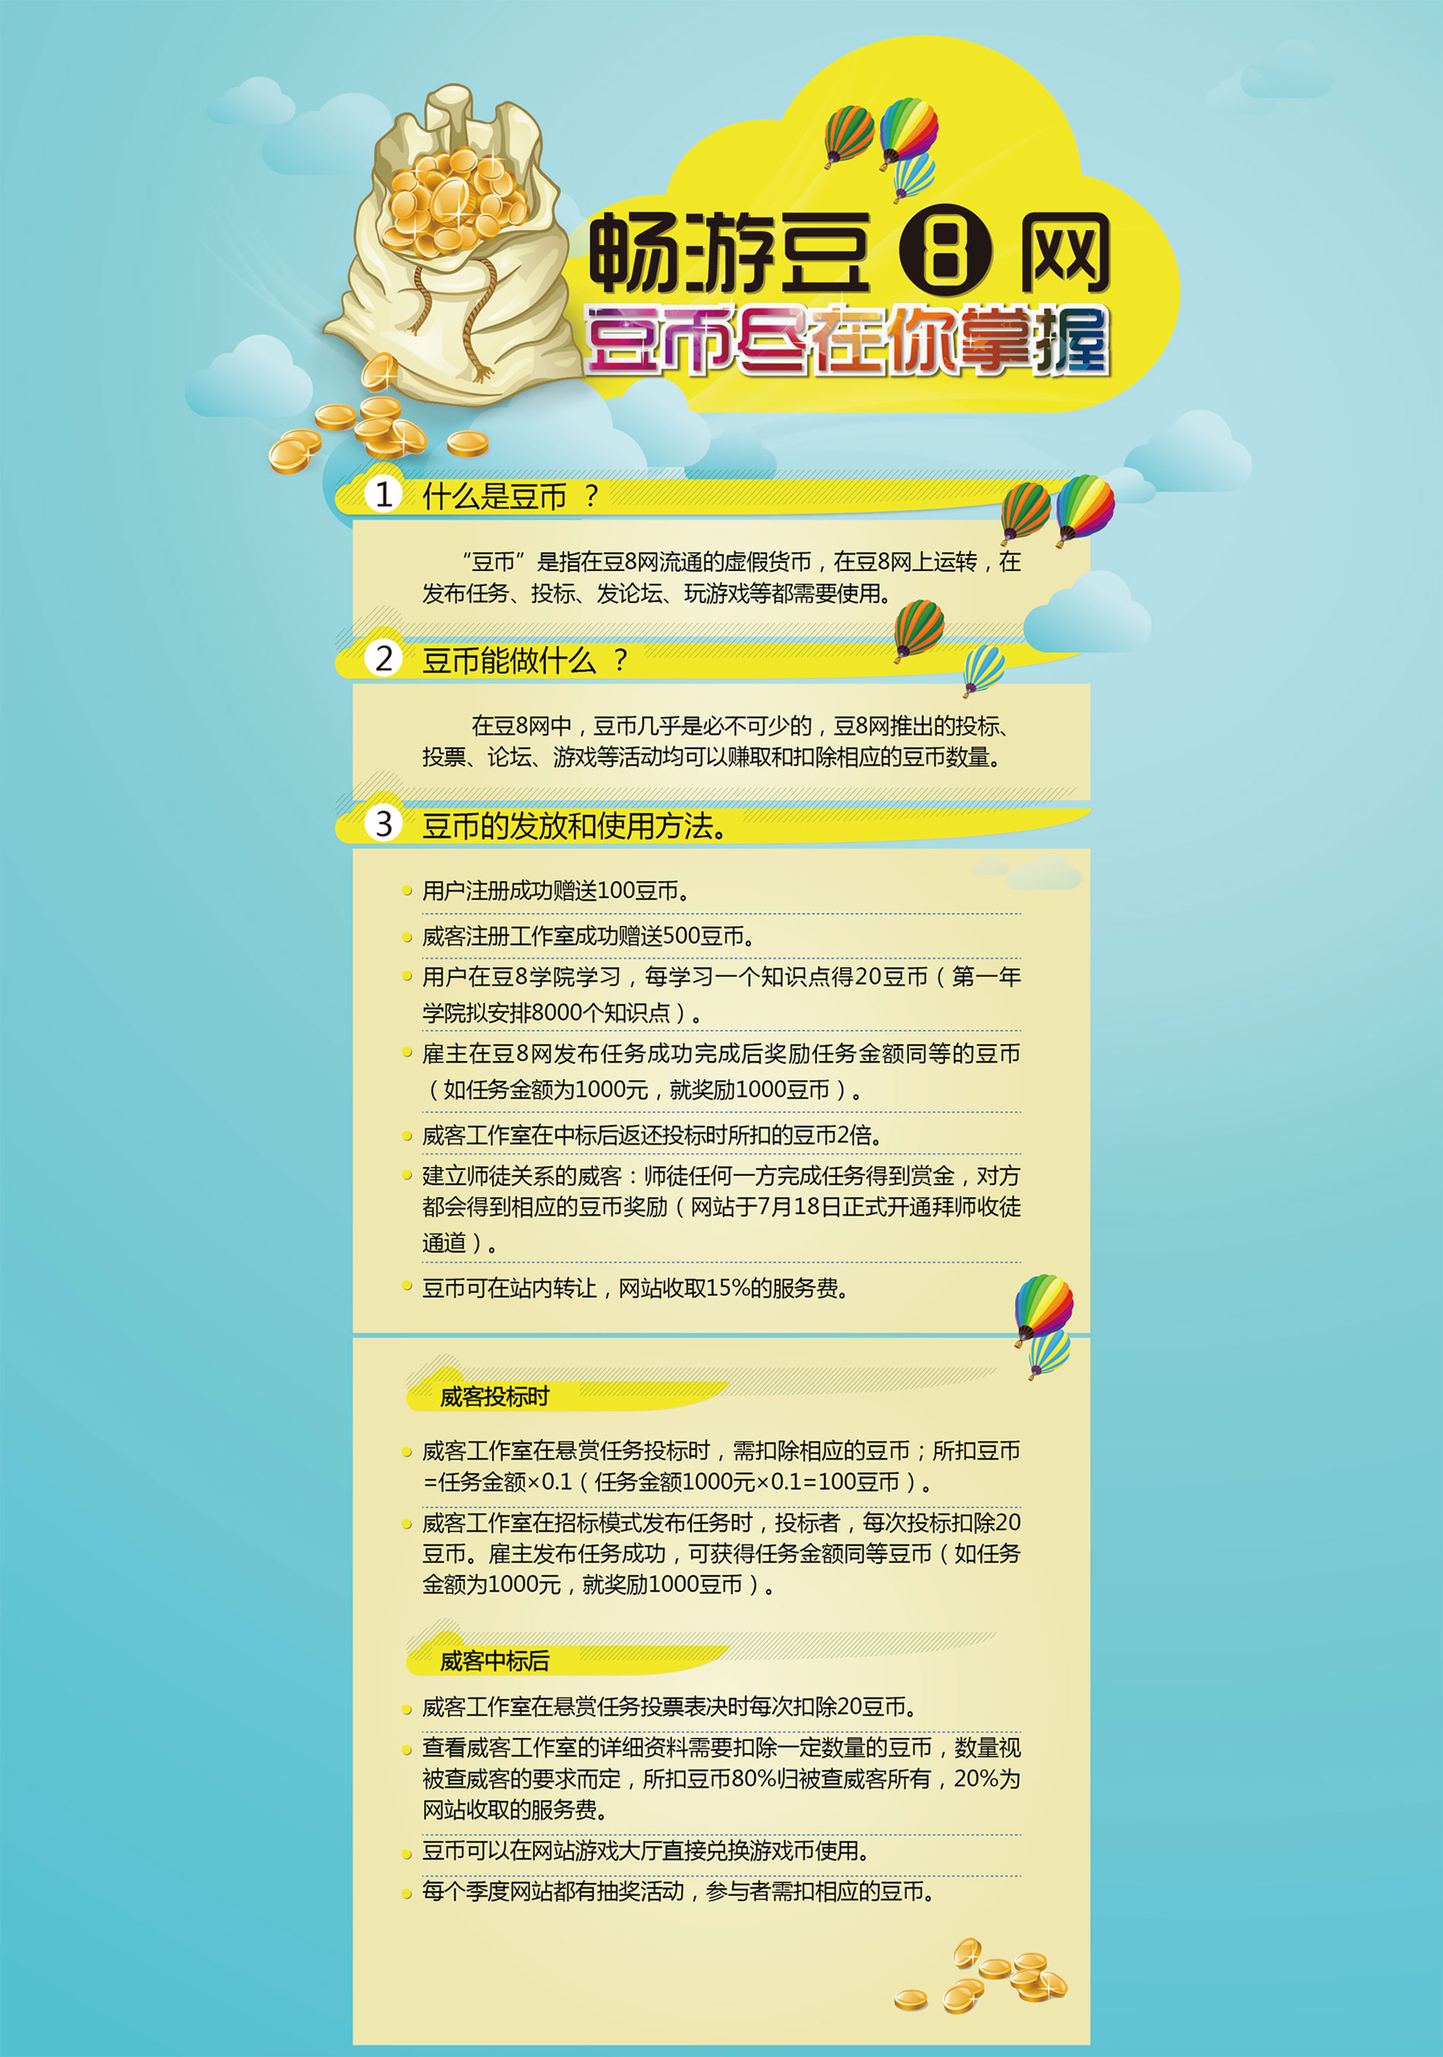
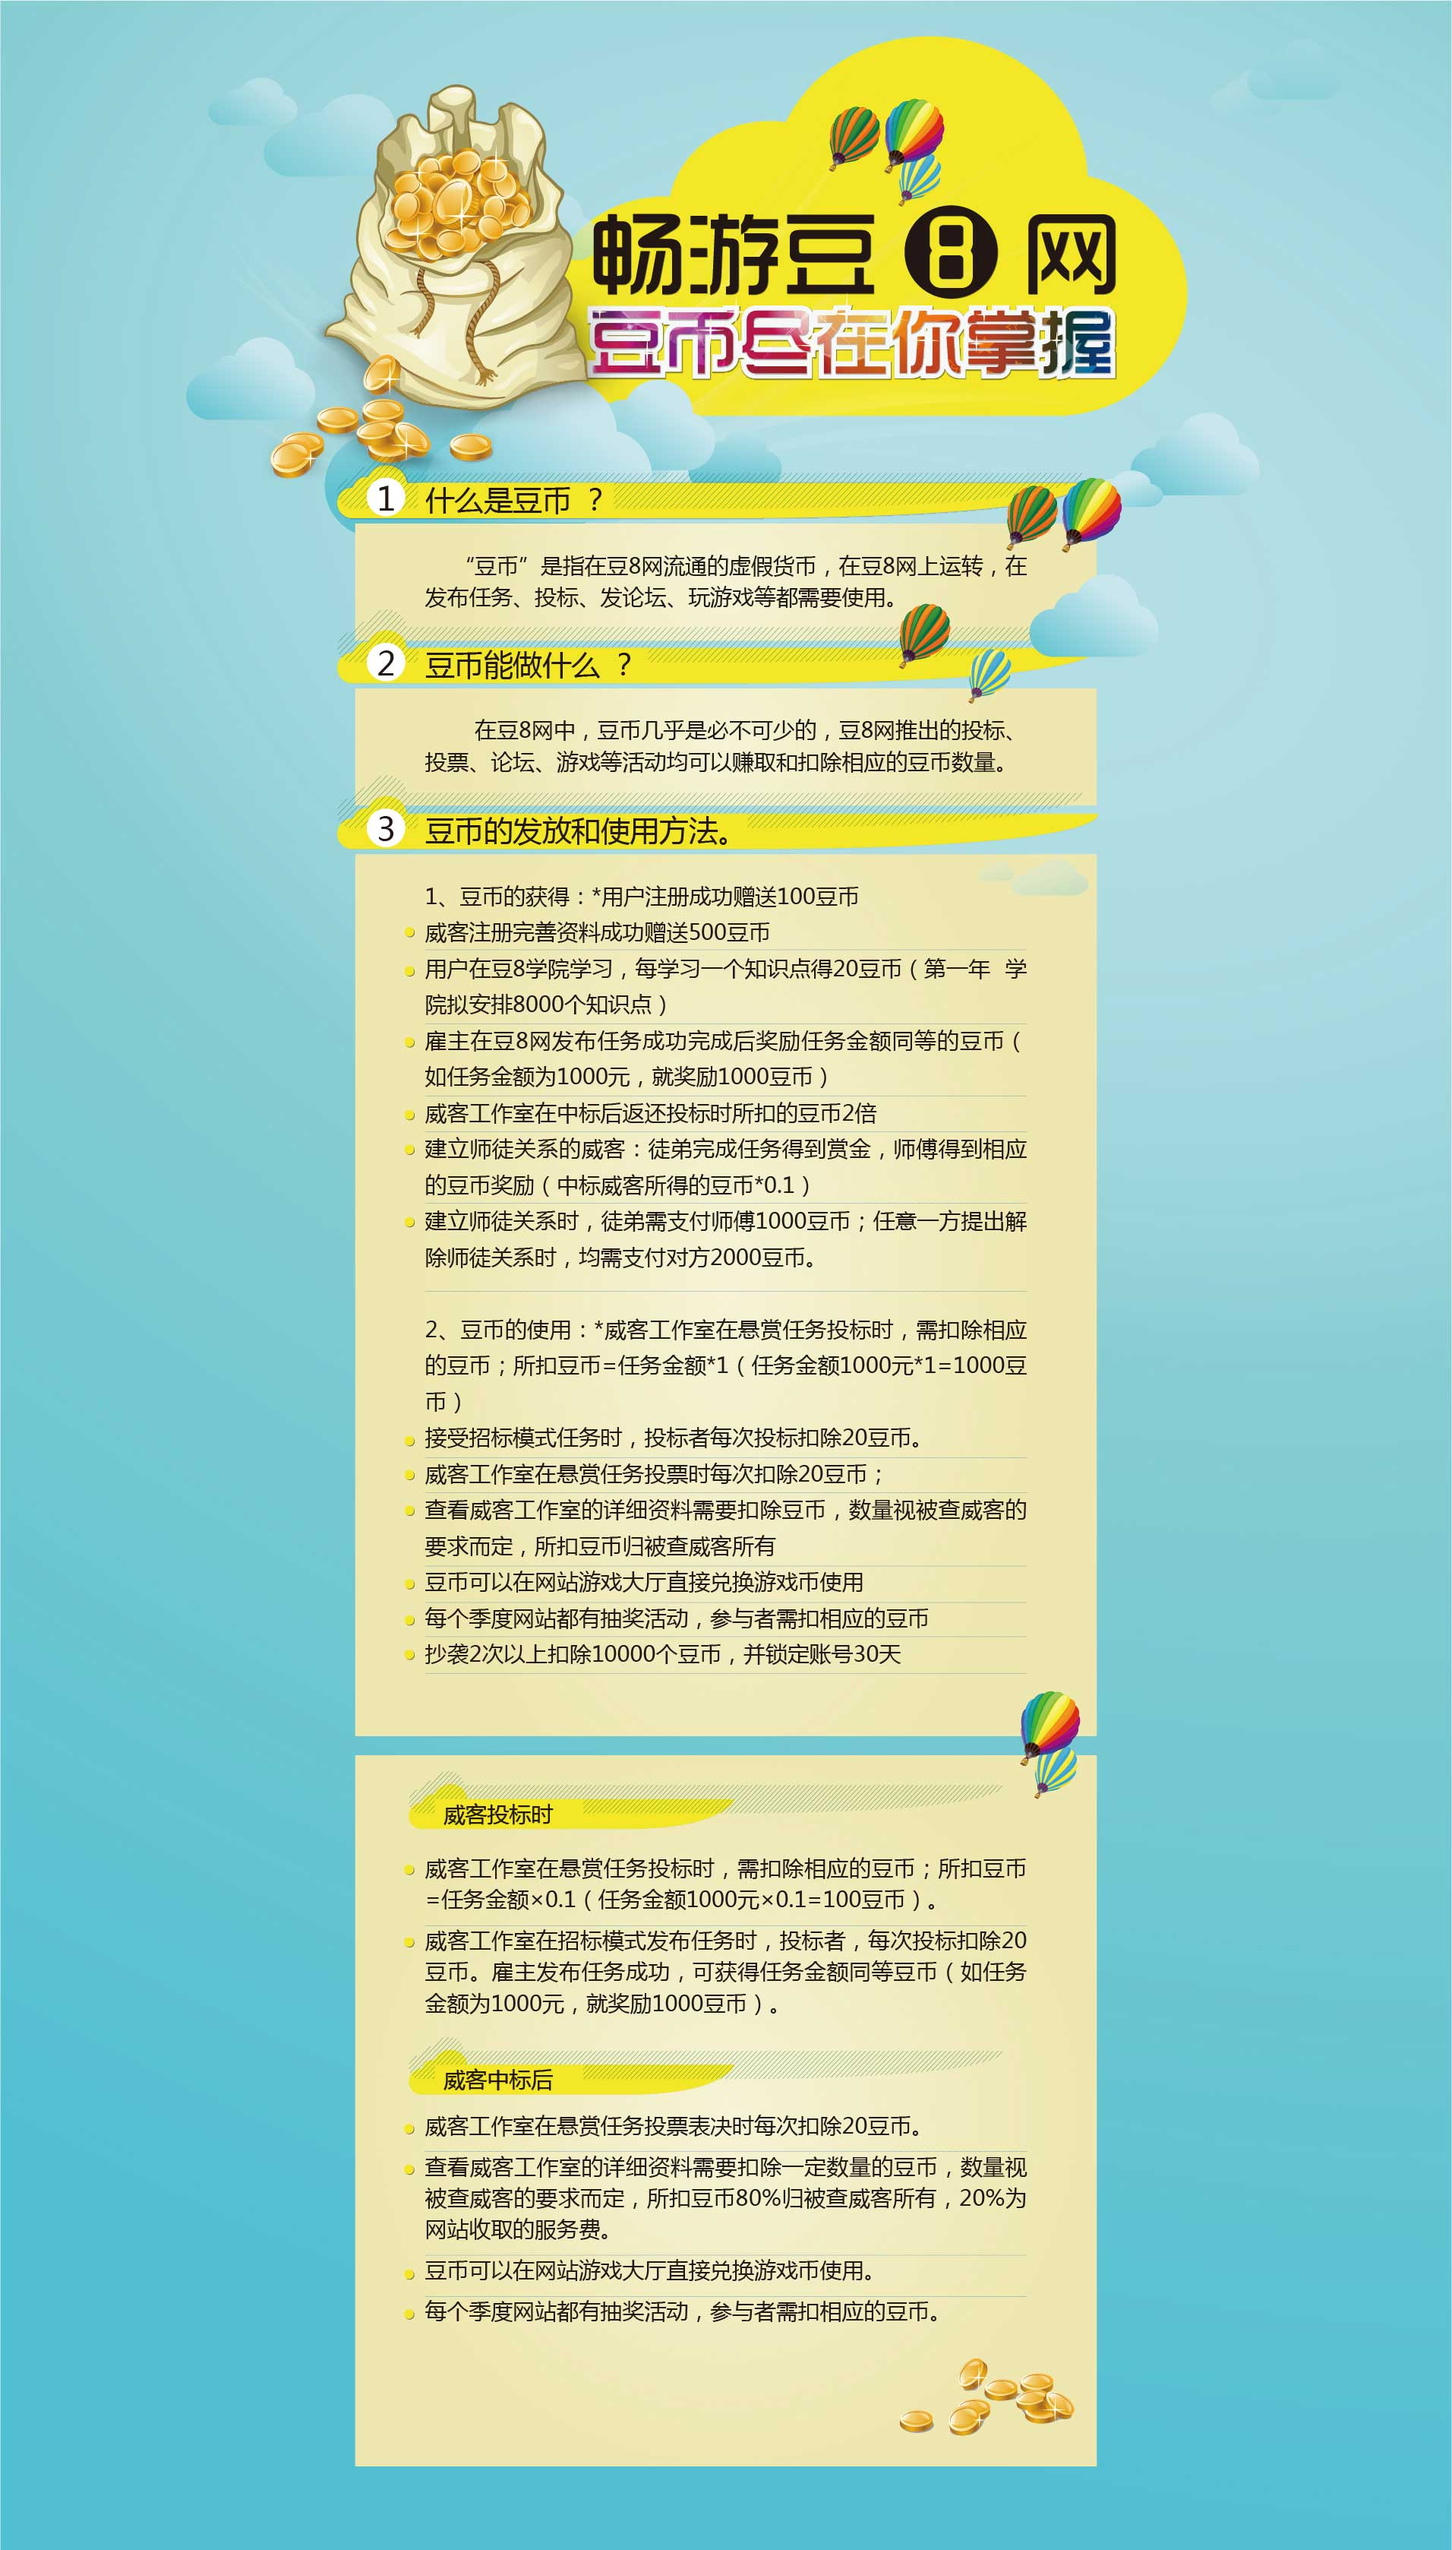
Signed-off-by: heavenK <heaven@we54.com>

Changed region(s): [[0.1242, 0.0, 0.8384, 1.0]]

diff --git a/tpl/default/ads/doubi.htm b/tpl/default/ads/doubi.htm
@@ -1,0 +1,22 @@
+<!DOCTYPE html PUBLIC "-//W3C//DTD XHTML 1.0 Transitional//EN" "http://www.w3.org/TR/xhtml1/DTD/xhtml1-transitional.dtd">
+<html xmlns="http://www.w3.org/1999/xhtml">
+<head>
+<meta http-equiv="Content-Type" content="text/html; charset=utf-8" />
+<title>豆8网</title>
+
+<link rel="stylesheet" type="text/css" href="/tpl/default/d8/css/T_index.css">
+<link rel="stylesheet" type="text/css" href="/tpl/default/d8/css/T_guanggao.css">
+<link rel="stylesheet" type="text/css" href="/tpl/default/d8/css/T_footer.css">
+</head>
+
+<body style="background:#5cc2d1">
+
+
+
+<!--{template ads/nav}-->
+
+<!--<div class="weiju" style="text-align:center; overflow:hidden"><img src="/tpl/default/d8/images/t04.jpg" /></div>-->
+<div class="doubi" style="height:3356px; background:url(tpl/default/d8/images/doubi.jpg) no-repeat center; margin:0 auto;"></div>
+<div class="box">
+<!--{template footer_dou}-->
+
